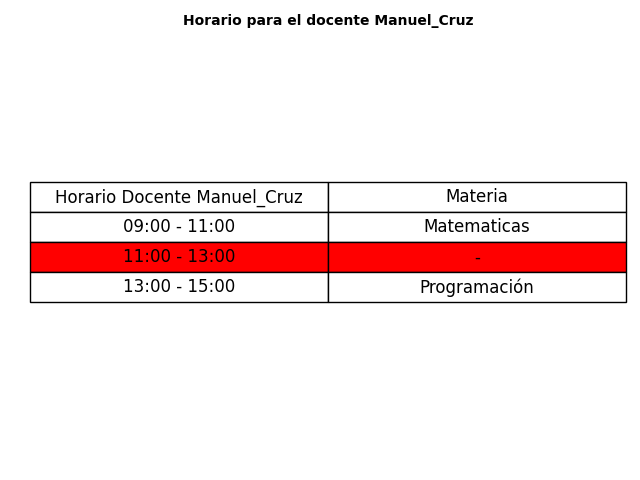
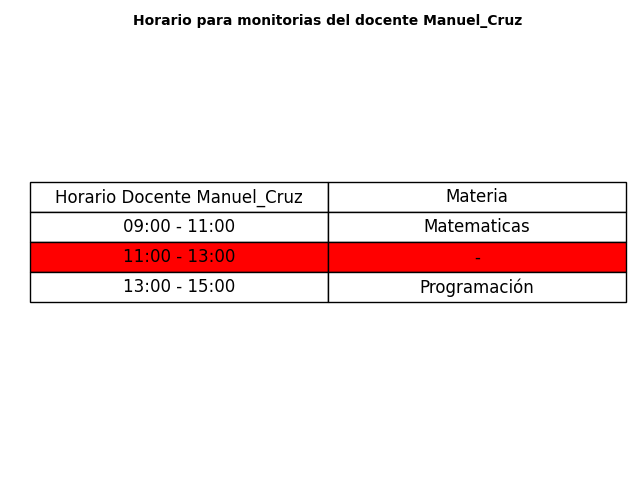
Se temrina la intefaz gráfica del estudiante, queda pendiente en clase hablar acerca del entregable del notebook y demas cosas para la tercera entrega

Changed region(s): [[0.1875, 0.0312, 0.8125, 0.0625]]

diff --git a/interfaz_grafica.py b/interfaz_grafica.py
@@ -4,7 +4,6 @@ import matplotlib.pyplot as plt
 import matplotlib.patches as patches
 from matplotlib.offsetbox import AnnotationBbox, OffsetImage
 
-
 def construir_horario_docente(docente, list_disponibilidad, list_materias):
     # Creación de tabla sin datos ni restriciones de horario
     datos = [[f'Horario Docente {docente}', 'Materia'],
@@ -39,7 +38,7 @@ def construir_horario_docente(docente, list_disponibilidad, list_materias):
 
     
     # Agregar texto fuera de la tabla
-    plt.text(0.5, 1.1, f'Horario para el docente {docente}',
+    plt.text(0.5, 1.1, f'Horario para monitorias del docente {docente}',
              horizontalalignment = 'center',
              verticalalignment = 'center',
              transform = ax.transAxes,
@@ -51,4 +50,48 @@ def construir_horario_docente(docente, list_disponibilidad, list_materias):
 # Para el caso de la proyección de las materias, se encuentra restrinjido la modificación en los casos que la disponibilidad sea false
 # Dejar '' en espacios donde la disponibilidad sea falsta, como lo muestra el ejemplo
 
+def construir_horario_estudiante(estudiante, list_disponibilidad, list_materias):
+    # Creación de tabla sin datos ni restriciones de horario
+    datos = [[f'Horario Docente {estudiante}', 'Materia'],
+            ['09:00 - 11:00', list_materias[0] if len(list_materias) > 0 and list_disponibilidad[0] else '-'],
+            ['11:00 - 13:00', list_materias[1] if len(list_materias) > 1 and list_disponibilidad[1] else '-'],
+            ['13:00 - 15:00', list_materias[2] if len(list_materias) > 2 and list_disponibilidad[2] else '-']]
+
+    # Crear la figura y los ejes
+    fig, ax = plt.subplots()
+
+    # Ocultar ejes
+    ax.axis('off')
+
+    # Crear la tabla
+    tabla = plt.table(cellText=datos,
+                    loc='center',
+                    cellLoc='center')
+
+    # Configurar estilo de la tabla
+    tabla.auto_set_font_size(False)
+    tabla.set_fontsize(12)
+    tabla.scale(1.2, 1.8)  # Ajustar tamaño de celda
+
+    # Colorear los horarios no disponibles
+    c = 1
+    for i in list_disponibilidad:
+        if i == False:
+            for j in range(len(datos[0])):
+                tabla.get_celld()[(c, j)].set_facecolor('red') 
+        c += 1         
+    # Agregar materias al horario
+
+    
+    # Agregar texto fuera de la tabla
+    plt.text(0.5, 1.1, f'Horario para monitorias del estudiante {estudiante}',
+             horizontalalignment = 'center',
+             verticalalignment = 'center',
+             transform = ax.transAxes,
+             weight = 'bold')
+
+    # Guardar la figura como archivo PNG en la carpeta del proyecto
+    fig.savefig('horario_estudiante_' + str(estudiante) + '.png')
+
 construir_horario_docente('Manuel_Cruz', [True, False, True], ['Matematicas', '', 'Programación' ])
+construir_horario_estudiante('Mariana_Romero', [False, True, True], ['', 'Lógica 2', 'Programación'])
